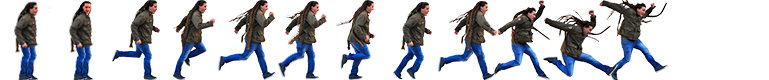
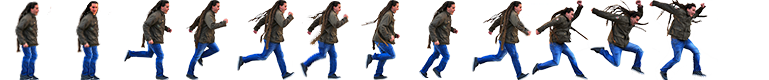
add braid player for fun

diff --git a/js/Hero.js b/js/Hero.js
@@ -4,9 +4,9 @@
 	function Hero(imgHero) { this.initialize(imgHero); }
 
 	var spriteSheet,
-		heroWidth = 55,
-		heroHeight = 80,
-		heroRegX = 27.5,
+		heroWidth = 65,
+		heroHeight = 75,
+		heroRegX = heroWidth / 2,
 		heroRegY = heroHeight;
 
 	Hero.prototype = new createjs.Sprite();
@@ -18,10 +18,10 @@
 			images: [imgHero],
 			frames: {width: heroWidth, height: heroHeight, regX: heroRegX, regY: heroRegY},
 			animations: {
-				walk: [2, 8, "walk"],
-				idle: [0, 0, "idle"],
+				walk: [0, 26, "walk"],
+				idle: [21, 21, "idle"],
 				looking: [1, 1, "looking"],
-				jump: [9, 11, "jump"]
+				jump: [26, 26,"jump"]
 			}
 		});
 		this.constructor(spriteSheet);

diff --git a/js/app.js b/js/app.js
@@ -283,7 +283,7 @@
 
         imgHero = new Image();
         imgHero.onload = chargement;
-        imgHero.src = "img/player.png";
+        imgHero.src = "img/braid.png";
 
     }
 
